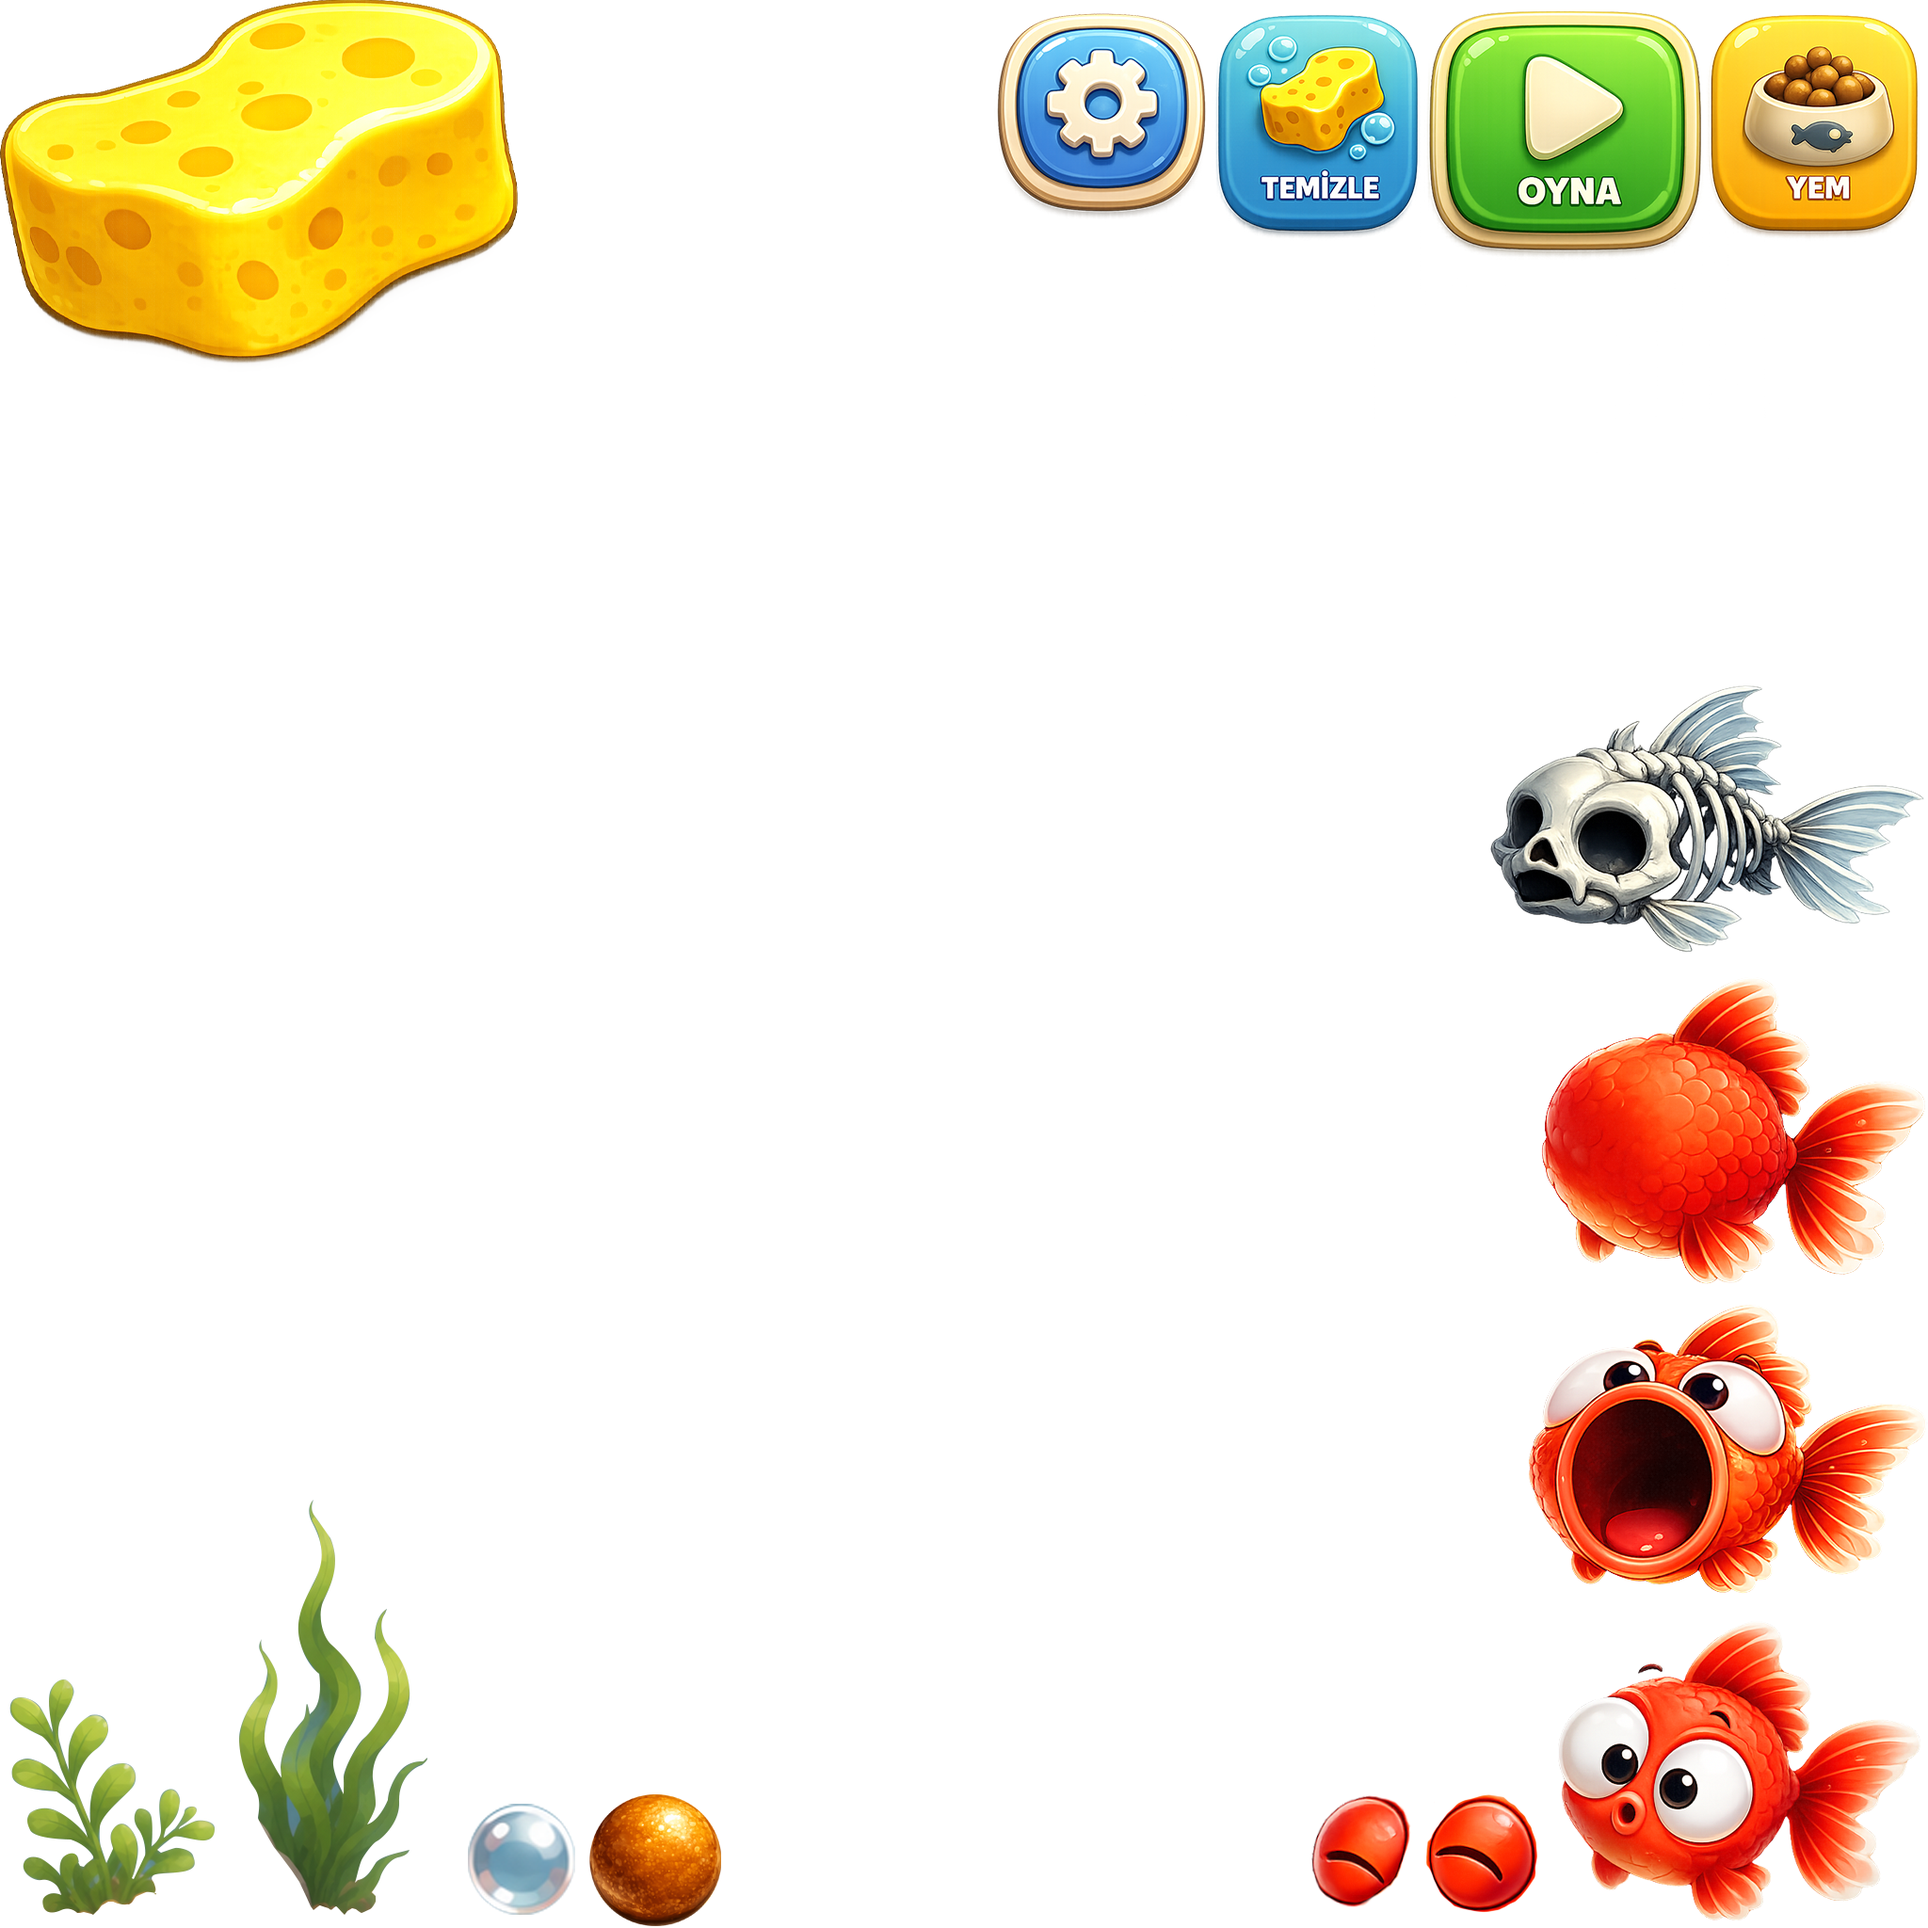
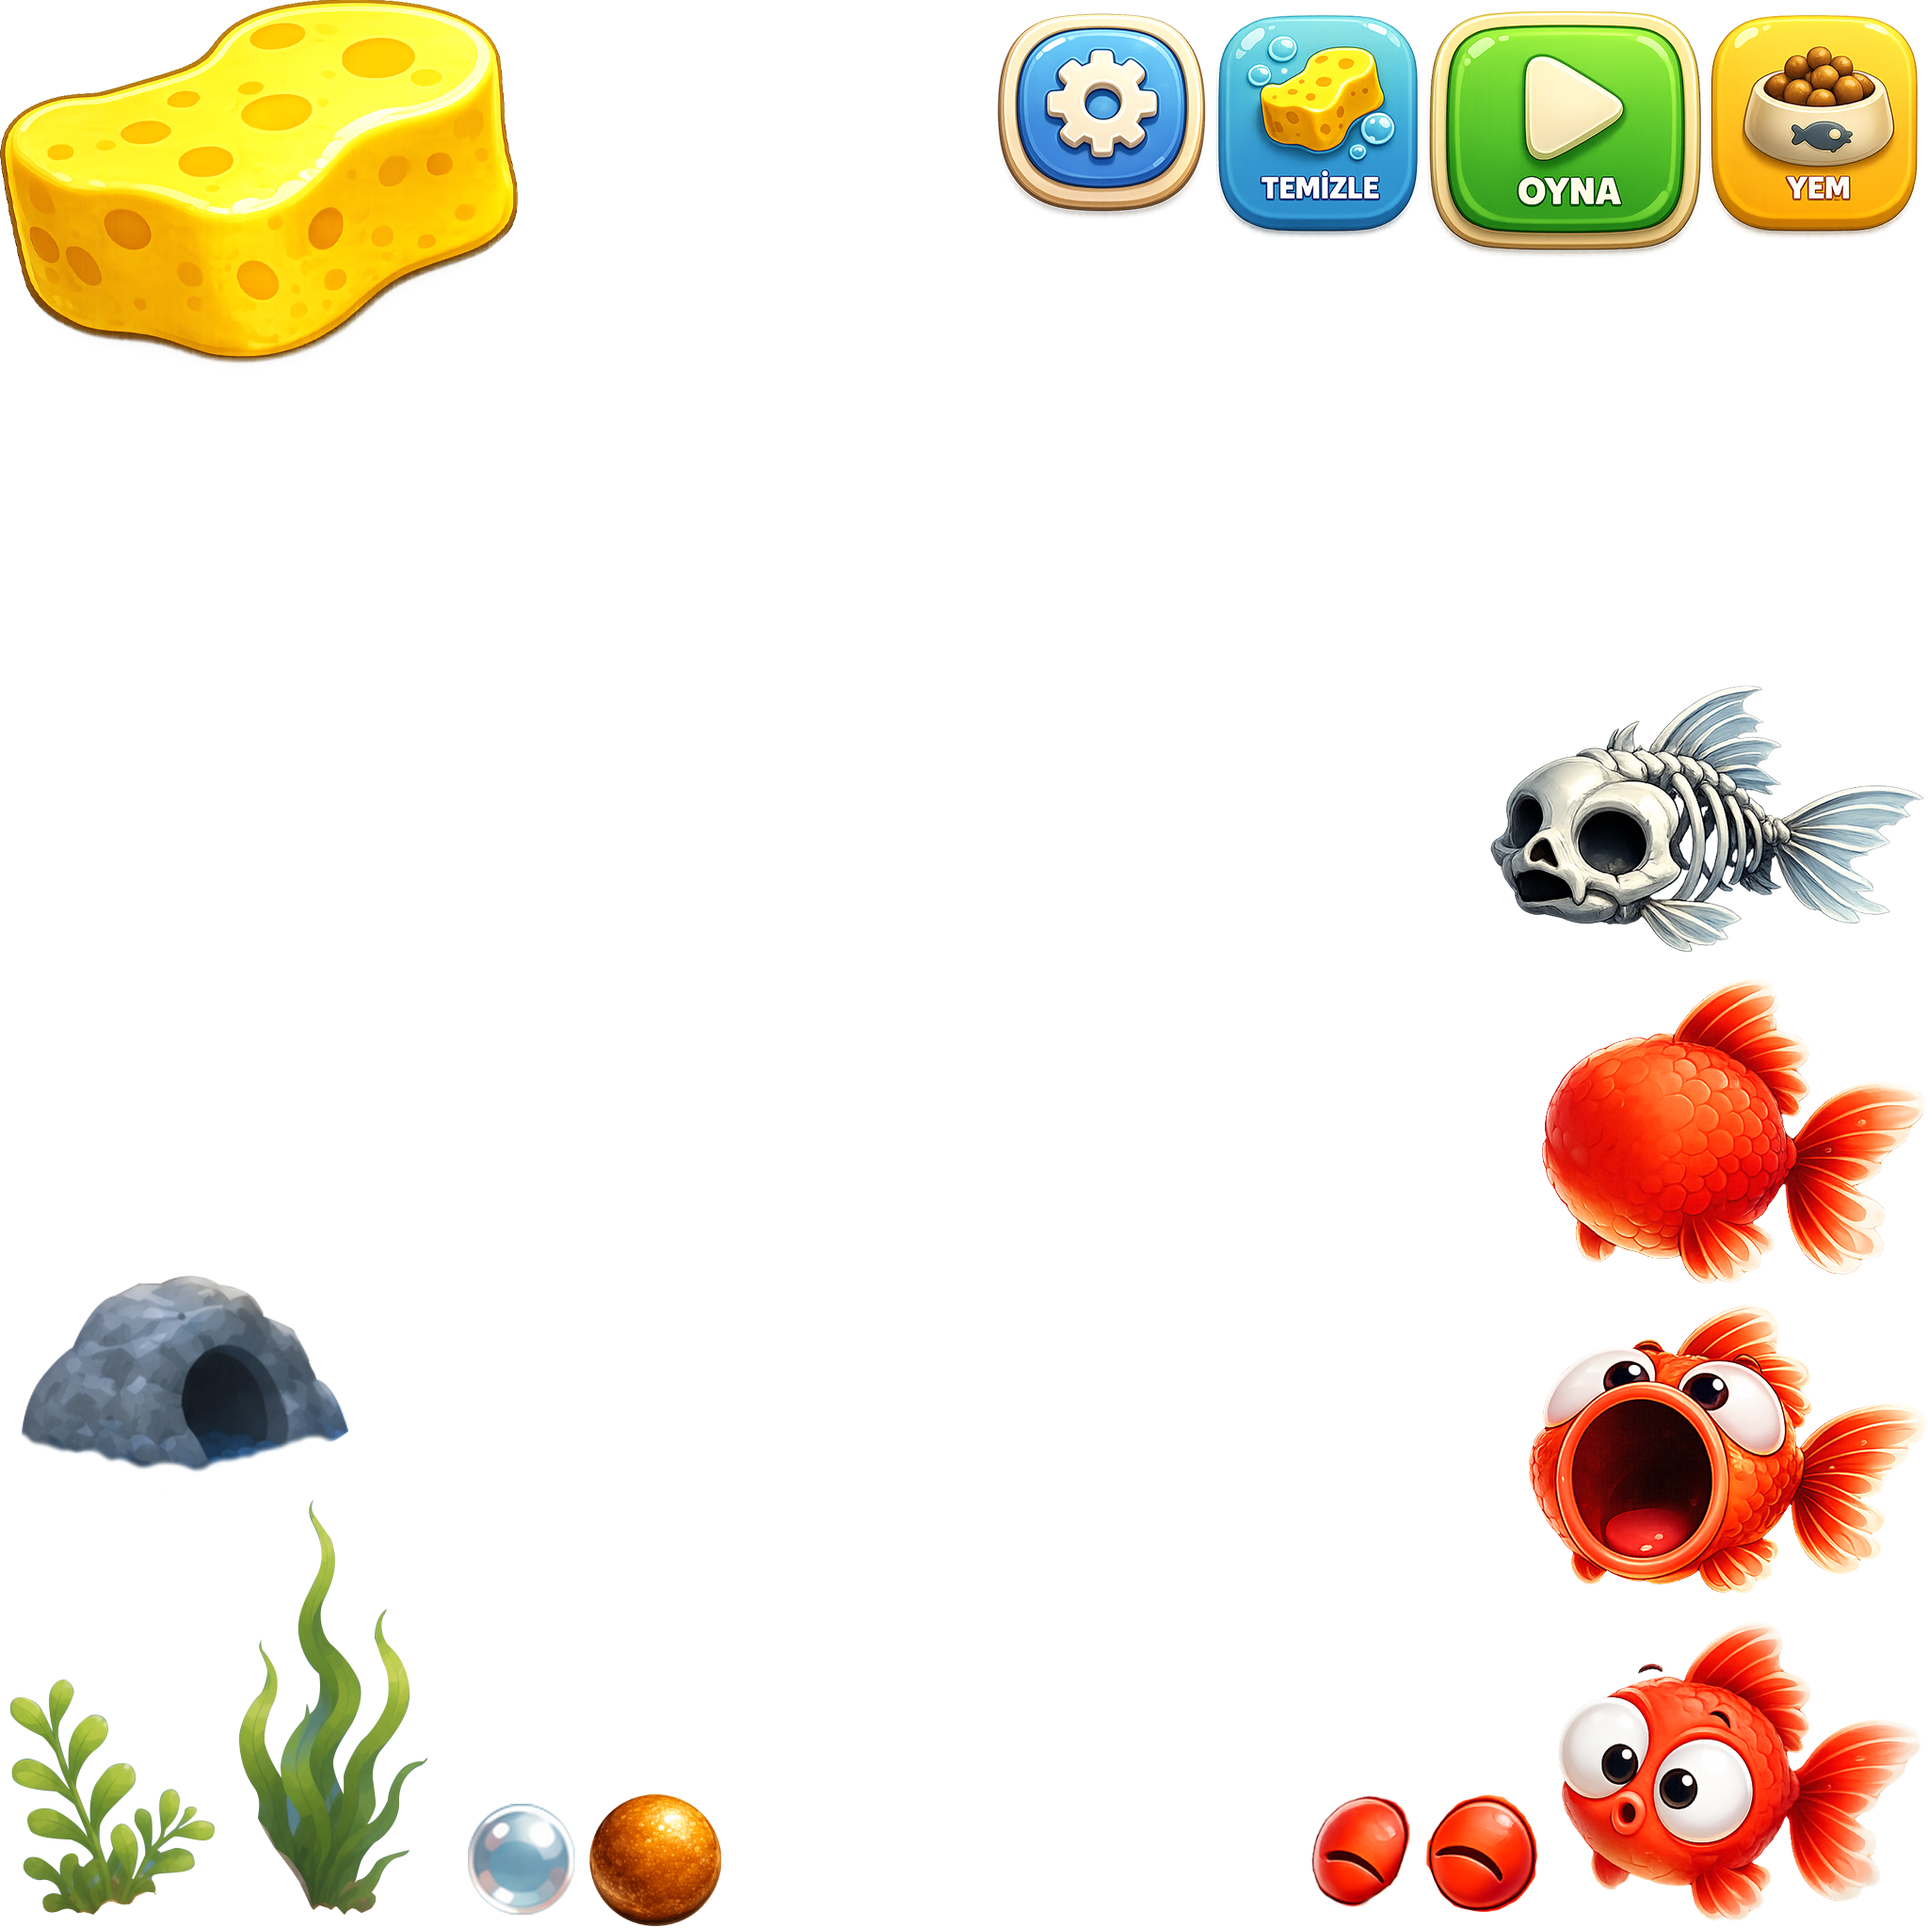
last changes

Changed region(s): [[0.0, 0.6562, 0.1875, 0.7812]]

diff --git a/Assets/_Game/Scripts/MainmenuManager.cs b/Assets/_Game/Scripts/MainmenuManager.cs
@@ -37,6 +37,10 @@ public class MainmenuManager : MonoBehaviour
     [Header("Play Button")]
     [SerializeField] private Button playButton;
 
+    [Header("Cave")]
+    [SerializeField] private RectTransform cavePoint;
+    [SerializeField] private float caveSwimSpeed = 300f;
+
     [Header("Sponge Settings")]
     [SerializeField] private Button clearButton;
     [SerializeField] private RectTransform spongeRect;
@@ -98,6 +102,13 @@ public class MainmenuManager : MonoBehaviour
     private List<RectTransform> availableFoods = new List<RectTransform>();
     private RectTransform currentChaseTarget;
 
+    // Cave
+    private bool isGoingToCave;
+
+    // Level text
+    private Transform menuLvTextCanvas;
+    private float origMenuLvTextLocalX;
+
     private void Start()
     {
         CollectSwimPoints();
@@ -107,6 +118,7 @@ public class MainmenuManager : MonoBehaviour
         SetupHungerHealth();
         SetupFoodSystem();
         SetupPlayButton();
+        LoadAndDisplayLevel();
 
         if (swimPoints.Count == 0 || fishRect == null)
             return;
@@ -232,6 +244,24 @@ public class MainmenuManager : MonoBehaviour
         Vector3 scale = fishRect.localScale;
         scale.x = direction > 0 ? -1f : 1f;
         fishRect.localScale = scale;
+
+        KeepLvTextUpright();
+    }
+
+    private void KeepLvTextUpright()
+    {
+        if (menuLvTextCanvas == null) return;
+
+        float flipX = fishRect.localScale.x;
+
+        Vector3 s = menuLvTextCanvas.localScale;
+        float absX = Mathf.Abs(s.x);
+        s.x = flipX >= 0 ? absX : -absX;
+        menuLvTextCanvas.localScale = s;
+
+        Vector3 p = menuLvTextCanvas.localPosition;
+        p.x = flipX >= 0 ? origMenuLvTextLocalX : -origMenuLvTextLocalX;
+        menuLvTextCanvas.localPosition = p;
     }
 
     private bool IsHungerFull()
@@ -780,8 +810,68 @@ public class MainmenuManager : MonoBehaviour
 
     private void OnPlayButtonClicked()
     {
-        if (isDead) return;
-        SceneManager.LoadScene("GameScene");
+        if (isDead || isGoingToCave) return;
+        isGoingToCave = true;
+        interruptMovement = true;
+        StopAllCoroutines();
+        StartCoroutine(SwimToCaveAndStart());
+    }
+
+    private IEnumerator SwimToCaveAndStart()
+    {
+        if (cavePoint == null || fishRect == null)
+        {
+            SceneManager.LoadScene("GameScene");
+            yield break;
+        }
+
+        if (playButton != null) playButton.interactable = false;
+
+        SetAnimState("Locomotion", 1f);
+        RectTransform fishParent = fishRect.parent as RectTransform;
+
+        while (true)
+        {
+            Vector3 localCave = fishParent.InverseTransformPoint(cavePoint.position);
+            Vector2 targetPos = new Vector2(localCave.x, localCave.y);
+
+            FlipFish(targetPos);
+
+            fishRect.anchoredPosition = Vector2.MoveTowards(
+                fishRect.anchoredPosition,
+                targetPos,
+                caveSwimSpeed * Time.deltaTime
+            );
+
+            if (Vector2.Distance(fishRect.anchoredPosition, targetPos) < arrivalThreshold)
+            {
+                SceneManager.LoadScene("GameScene");
+                yield break;
+            }
+
+            yield return null;
+        }
+    }
+
+    #endregion
+
+    #region Level Display
+
+    private void LoadAndDisplayLevel()
+    {
+        int level = PlayerPrefs.GetInt("PlayerLevel", 1);
+
+        if (fishAnimator == null) return;
+        menuLvTextCanvas = fishAnimator.transform.Find("LvTextCanvas");
+        if (menuLvTextCanvas == null) return;
+
+        origMenuLvTextLocalX = menuLvTextCanvas.localPosition.x;
+
+        var lvTextObj = menuLvTextCanvas.Find("LvText");
+        if (lvTextObj == null) return;
+
+        var tmp = lvTextObj.GetComponent<TextMeshProUGUI>();
+        if (tmp != null) tmp.text = $"Lv{level}";
     }
 
     #endregion

diff --git a/Assets/_Game/Scripts/GameManager.cs b/Assets/_Game/Scripts/GameManager.cs
@@ -2,6 +2,7 @@ using System.Collections;
 using System.Collections.Generic;
 using UnityEngine;
 using UnityEngine.EventSystems;
+using UnityEngine.SceneManagement;
 using UnityEngine.UI;
 using TMPro;
 
@@ -47,6 +48,11 @@ public class GameManager : MonoBehaviour
 
     [Header("Enemy Fish")]
     [SerializeField] private List<EnemySpawnConfig> enemySpawnConfigs = new List<EnemySpawnConfig>();
+
+    [Header("Portal")]
+    [SerializeField] private RectTransform portalSpawnPoint;
+    [SerializeField] private RectTransform portalNextPoint;
+    [SerializeField] private float portalEnterDistance = 100f;
 
     [System.Serializable]
     public class EnemySpawnConfig
@@ -110,6 +116,8 @@ public class GameManager : MonoBehaviour
                 canvasCamera = canvas.worldCamera;
         }
 
+        playerLevel = PlayerPrefs.GetInt("PlayerLevel", 1);
+
         if (fishWorldTransform != null)
         {
             origWorldFishScale = fishWorldTransform.localScale;
@@ -123,6 +131,7 @@ public class GameManager : MonoBehaviour
         SpawnEnemies();
         UpdatePlayerScale();
         UpdatePlayerLevelText();
+        MoveToSpawnPoint();
     }
 
     private void FindPlayerLvText()
@@ -264,6 +273,7 @@ public class GameManager : MonoBehaviour
         CheckFoodEat();
         SyncEnemyWorldPositions();
         CheckEnemyInteractions();
+        CheckPortal();
     }
 
     private void UpdateWorldPosition()
@@ -510,6 +520,7 @@ public class GameManager : MonoBehaviour
             playerLevel++;
             UpdatePlayerScale();
             UpdatePlayerLevelText();
+            SavePlayerLevel();
         }
     }
 
@@ -571,8 +582,40 @@ public class GameManager : MonoBehaviour
     {
         isEating = true;
         yield return new WaitForSeconds(1.5f);
-        UnityEngine.SceneManagement.SceneManager.LoadScene(
-            UnityEngine.SceneManagement.SceneManager.GetActiveScene().name);
+        SceneManager.LoadScene(SceneManager.GetActiveScene().name);
+    }
+
+    #endregion
+
+    #region Portal & Save
+
+    private void MoveToSpawnPoint()
+    {
+        if (portalNextPoint == null || bgRect == null) return;
+
+        Vector3 localInBG = bgRect.InverseTransformPoint(portalNextPoint.position);
+        worldPosition = new Vector2(localInBG.x, localInBG.y);
+        ClampWorldPosition();
+        bgRect.anchoredPosition = bgStartPos - worldPosition;
+    }
+
+    private void CheckPortal()
+    {
+        if (portalSpawnPoint == null || isEating) return;
+        float dist = Vector2.Distance(fishRect.position, portalSpawnPoint.position);
+        if (dist < portalEnterDistance)
+        {
+            SavePlayerLevel();
+            SceneManager.LoadScene("MainmenuScene");
+        }
+    }
+
+    private void SavePlayerLevel()
+    {
+        PlayerPrefs.SetInt("PlayerLevel", playerLevel);
+        float s = baseScale + (playerLevel - 1) * scalePerLevel;
+        PlayerPrefs.SetFloat("PlayerScale", s);
+        PlayerPrefs.Save();
     }
 
     #endregion
